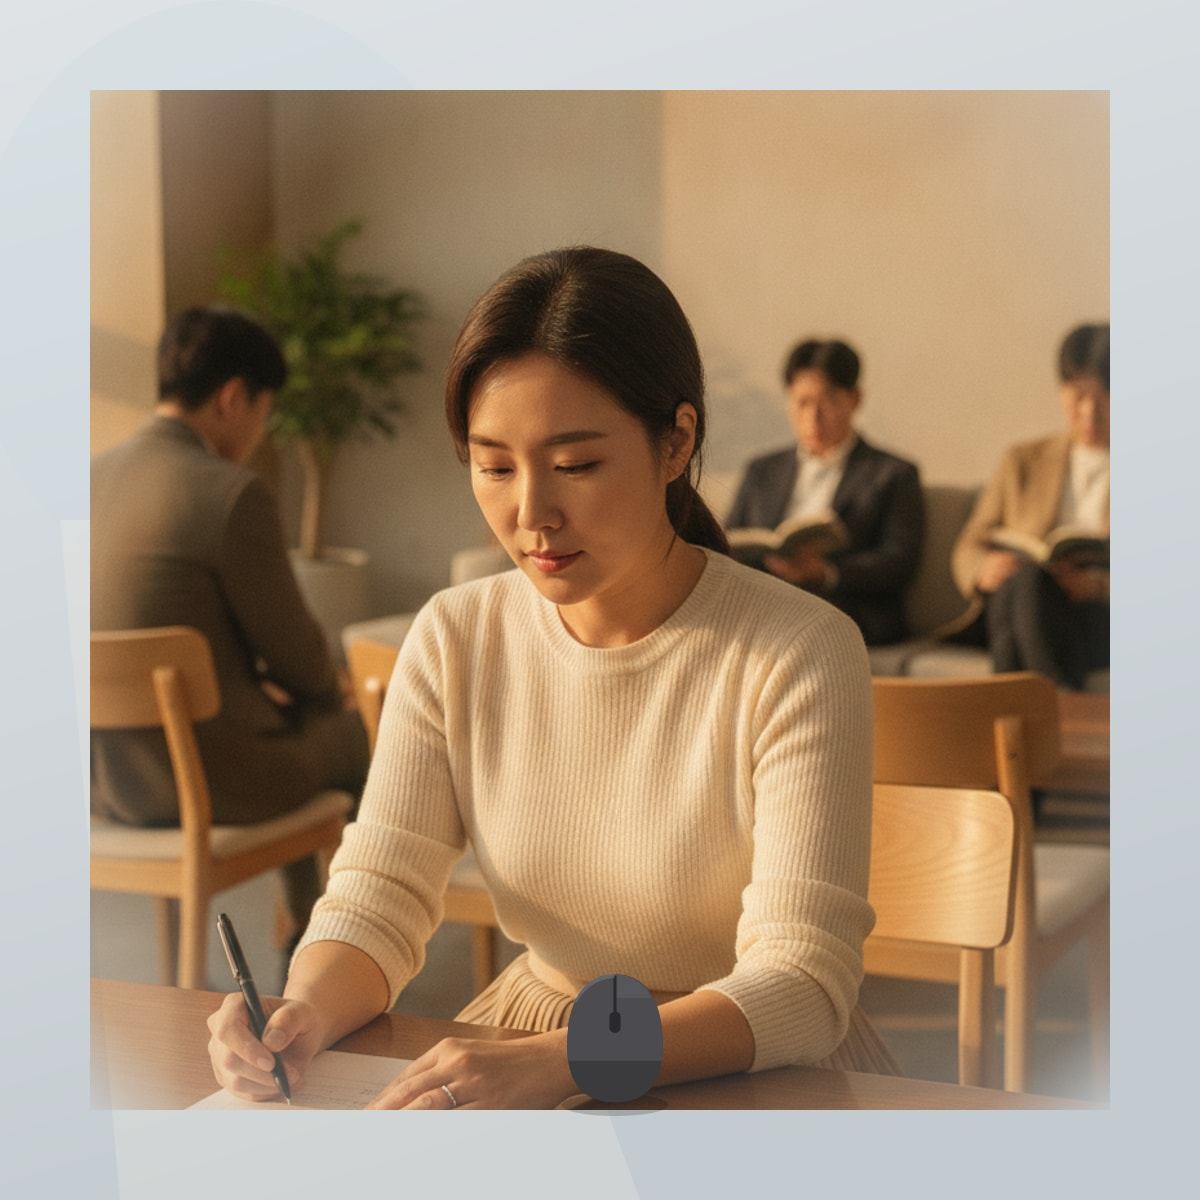
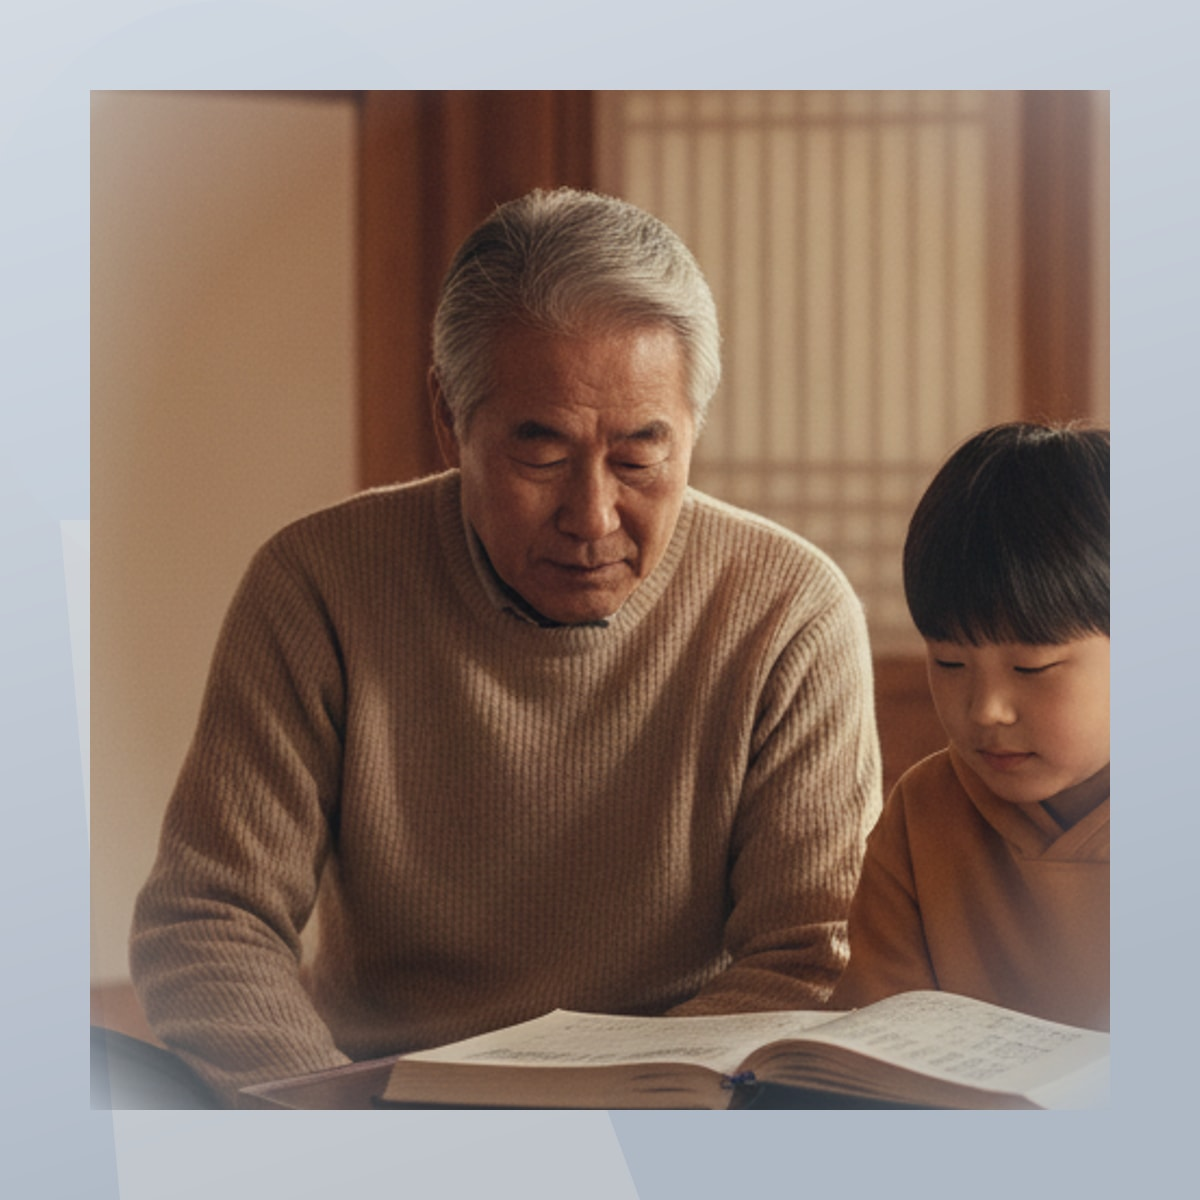
28 — 마우스를 지우고 나이 든 인물로 바꿨다
사장님 「같은 사진이잖아. 인물을 더 나이든 사람으로 바꿔.
        컴퓨터용 마우스를 왜 쓰나? 지워」

28 과 30 이 둘 다 06 개명의 인물이었다. 28 을 성씨본관의 어른으로 바꿨다.
마우스는 뺐다 — 별자리 회차에 컴퓨터 마우스를 넣을 까닭이 없었다.

Claude-Session: https://claude.ai/code/session_016PFoB3nVMVqyr8iovvYczH

diff --git a/docs/보고/연재원고-3차-25to30-20261115.md b/docs/보고/연재원고-3차-25to30-20261115.md
@@ -125,7 +125,7 @@
 
 **부제목** — [철학과 미신 사이] 태양이 전갈자리에 체류하는 기간은 약 6일 … 점성과 천문은 좌표계가 상이하다
 
-![화면으로 별자리를 확인한다. 점성과 천문은 좌표계가 다르다 / KLifeMap.AI](docs/보고/연재삽화/연재-28.jpg)
+![어른이 오래된 기록을 들여다본다. 점성과 천문은 좌표계가 다르다 / KLifeMap.AI](docs/보고/연재삽화/연재-28.jpg)
 
 ［중부매일 박인택 기자］ 몇 년에 한 번씩 별자리가 바뀌었다는 소식이 돌아다닌다. 13번째 별자리가 있고 내 별자리가 달라졌다는 내용이다. 사실인지 확인해 보면 사실과 오해가 섞여 있다.
 
